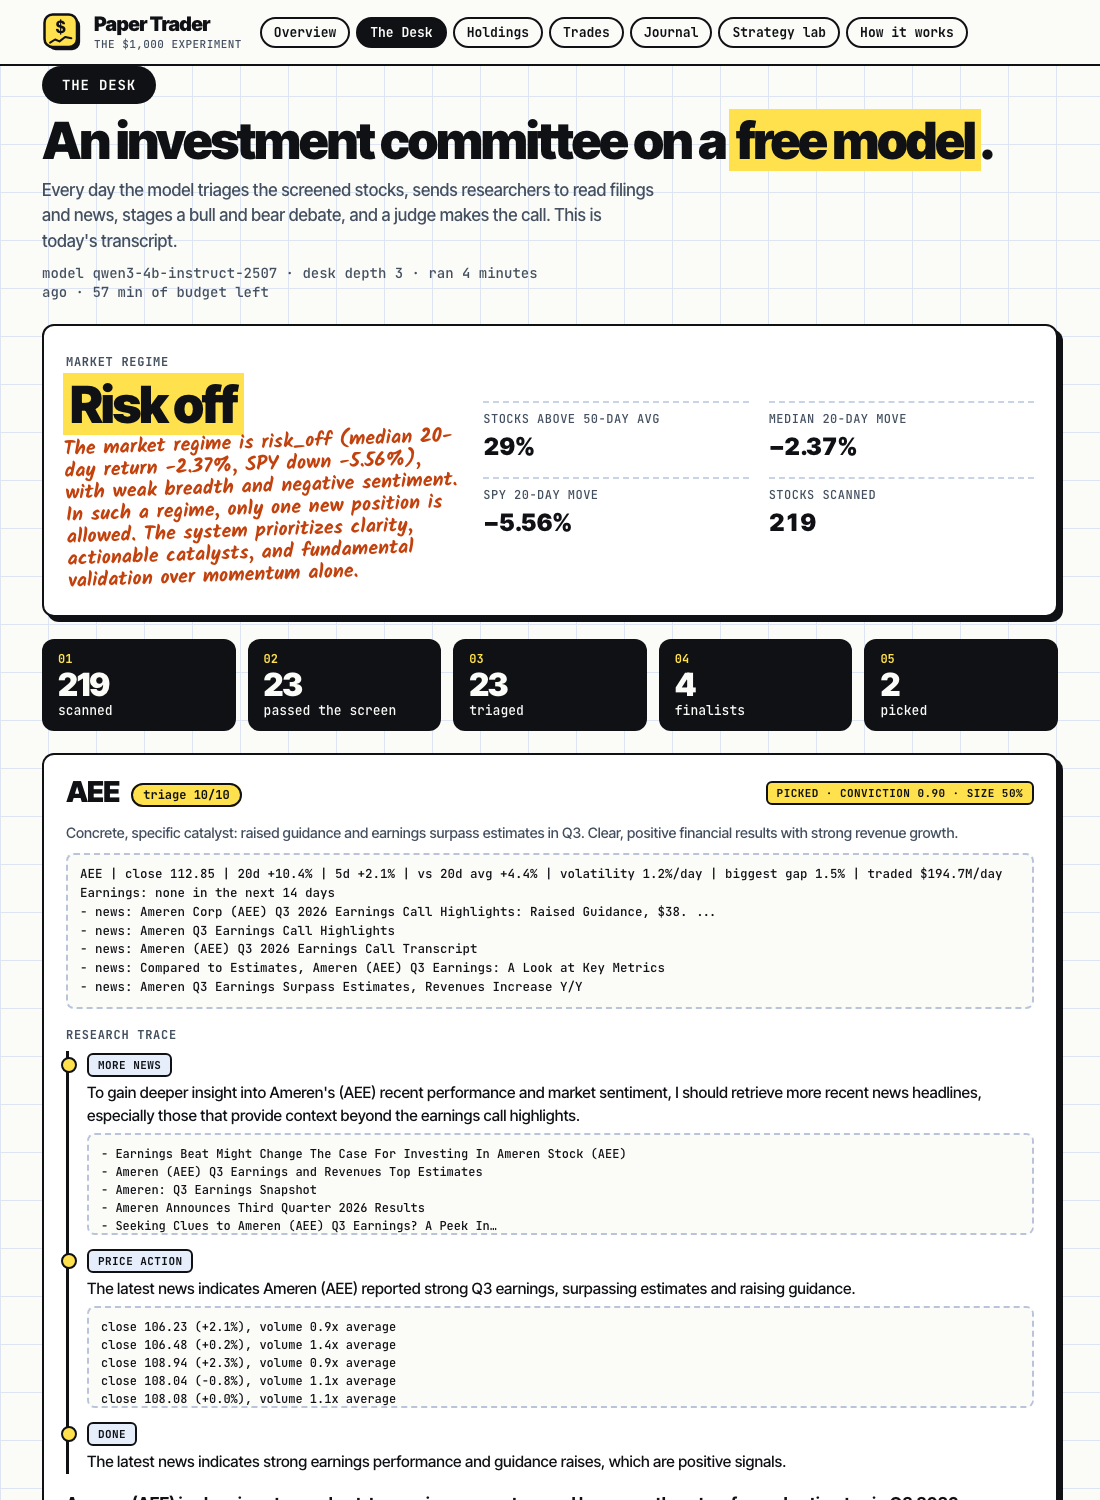
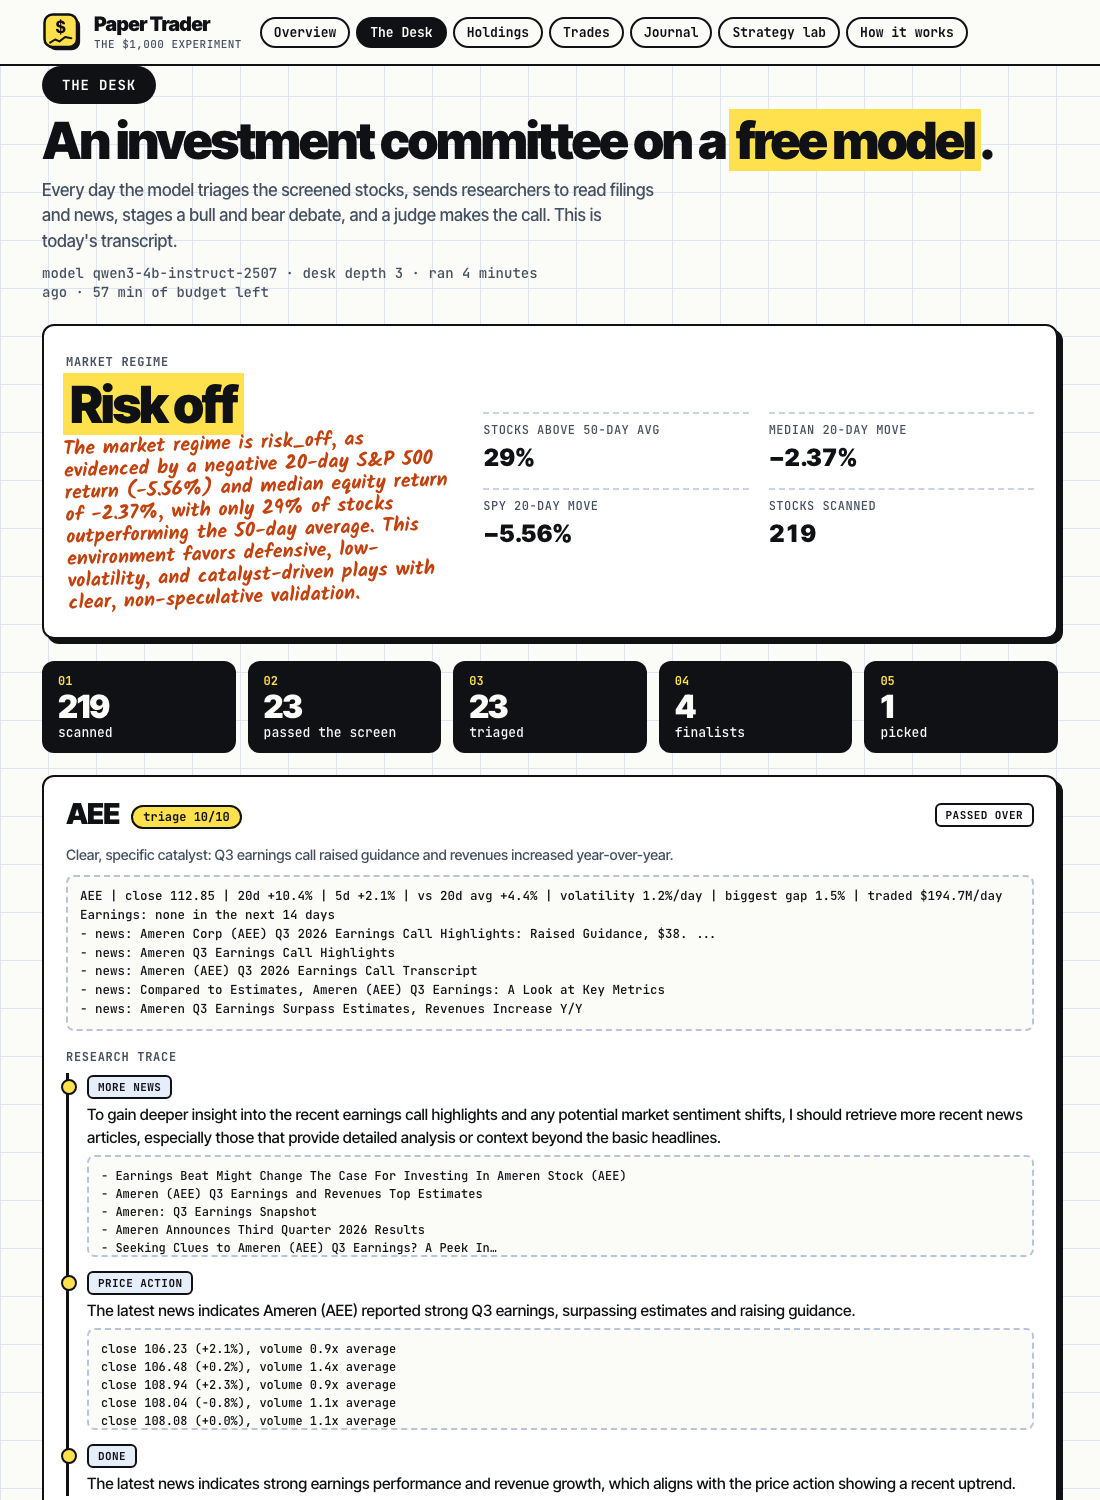
Rewrite the README around the desk, the depth ladder and the scorecard; refresh the screenshots from a real run

Changed region(s): [[0.0309, 0.276, 0.9891, 1.0], [0.4327, 0.276, 0.5873, 0.368], [0.68, 0.276, 0.8345, 0.368]]

diff --git a/README.md b/README.md
@@ -4,7 +4,7 @@
 
 <img src="docs/banner.svg" alt="Paper Trader, the $1,000 experiment" width="100%">
 
-**A $1,000 paper-trading account run by a free, open-weights AI. It reads the news and the earnings calendar, tests its own changes, and publishes every decision.**
+**A $1,000 paper-trading account run by an AI investment committee. It researches with tools, argues with itself, remembers its mistakes, grades every call, and has to prove each layer of AI beats the layer below. All on a free open-weights model.**
 
 [![Live dashboard](https://img.shields.io/badge/live-dashboard-ffe14d?style=for-the-badge&labelColor=0f1115)](https://mansoor-mamnoon.github.io/paper-trader/)
 [![Tests](https://img.shields.io/github/actions/workflow/status/mansoor-mamnoon/paper-trader/rust.yml?branch=main&style=for-the-badge&label=tests&labelColor=0f1115)](https://github.com/mansoor-mamnoon/paper-trader/actions/workflows/rust.yml)
@@ -12,25 +12,25 @@
 ![Model](https://img.shields.io/badge/model-Qwen3%204B%20open%20weights-ffe14d?style=for-the-badge&labelColor=0f1115)
 ![Cost](https://img.shields.io/badge/cost-%240-ffe14d?style=for-the-badge&labelColor=0f1115)
 
-[Live dashboard](https://mansoor-mamnoon.github.io/paper-trader/) · [How it works](#how-it-works) · [Strategy](#strategy) · [Strategy lab](#strategy-lab) · [Free and autonomous](#free-and-autonomous) · [Run it](#run-it) · [Limits](#limits)
+[Live dashboard](https://mansoor-mamnoon.github.io/paper-trader/) · [The desk](#the-desk) · [Does the AI help?](#does-the-ai-help) · [Strategy lab](#strategy-lab) · [Free and autonomous](#free-and-autonomous) · [Run it](#run-it) · [Limits](#limits)
 
 </div>
 
 ---
 
 <div align="center">
-<img src="docs/overview.svg" alt="Overview: data sources feed the screen and the AI analyst, the live and shadow accounts trade, ledgers are committed, and a static dashboard publishes the results" width="100%">
+<img src="docs/overview.svg" alt="Overview: data sources feed the screen and the investment desk, the live and shadow accounts trade, ledgers are committed, and a static dashboard publishes the results" width="100%">
 </div>
 
 ## What it is
 
-Paper Trader starts with $1,000 of simulated money and looks at US stocks once a day. A quantitative screen finds stocks in an uptrend. Then a small open-weights language model (Qwen3 4B, Apache-2.0) reads their recent headlines and upcoming earnings dates and ranks the ones it believes in. A fixed rulebook handles sizing and exits. Every signal, every skipped stock and every fill goes into a SQLite ledger, and a read-only dashboard on GitHub Pages shows all of it.
+Paper Trader starts with $1,000 of simulated money and looks at US stocks once a day. A quantitative screen finds stocks in an uptrend. Then an investment desk of small open-weights models (Qwen3 4B, Apache-2.0) decides which of them to buy. Every signal, every skipped stock, every argument and every fill goes into a SQLite ledger, and a read-only dashboard on GitHub Pages shows all of it.
 
-The question is whether this beats buying SPY after fees and slippage over 60 days. It places no real orders and has no broker connection. Everything runs on GitHub's free runners with no API key, and the whole backend is Rust.
+The question is whether this beats buying SPY after fees and slippage over 60 days, and which parts of the AI deserve the credit if it does. It places no real orders and has no broker connection. Everything runs on GitHub's free runners with no API key, and the backend is Rust.
 
 <div align="center">
-<img src="docs/dashboard.gif" alt="A tour through the six tabs of the dashboard" width="760">
-<br><sub>The six tabs, shown with a replayed scenario and synthetic prices.</sub>
+<img src="docs/dashboard.gif" alt="A tour through the dashboard tabs: overview, the desk, strategy lab, journal and how it works" width="760">
+<br><sub>A real run from 8 November 2026. No trades have closed yet, so the portfolio tabs are still empty.</sub>
 </div>
 
 | Setting | Value |
@@ -43,20 +43,42 @@ The question is whether this beats buying SPY after fees and slippage over 60 da
 | Model | Qwen3-4B-Instruct-2507, 4-bit, on llama.cpp, CPU only |
 | Hosting | GitHub Actions and GitHub Pages |
 
-## How it works
+## The desk
+
+One prompt that asks a small model to rank a dozen headlines wastes most of what a language model can do. GitHub's free runners give the job hours of CPU, so the desk spends that on deliberation.
 
 <div align="center">
-<img src="docs/pipeline.svg" alt="Daily pipeline: scan, screen, read, model picks, queue and fill, publish" width="100%">
+<img src="docs/desk.svg" alt="The desk: screen, triage, research agents with tools, bull and bear debate, judge, then the position doctor, memory, scorecard and strategy lab feed back in" width="100%">
 </div>
 
-1. The run downloads the Nasdaq symbol directory and a rotating batch of delayed daily bars from Yahoo Finance (800 symbols by default). Held positions, queued orders and SPY are always included.
-2. Each stock is screened and logged as `CANDIDATE` or `PASS` with the numbers behind the call.
-3. For the best candidates it fetches the next two weeks of earnings dates from Nasdaq and the latest headlines from Yahoo Finance.
-4. The model ranks the candidates, writes a short thesis for each pick and can veto stocks. It can only choose from the list it was shown.
-5. A buy never fills at the price that triggered it. It queues for a later session and fills at the open with fees and slippage applied.
-6. The ledgers are exported as JSON and CSV and the dashboard is redeployed.
+1. **Screen.** About 13,000 tickers go in, and the stocks in a liquid uptrend come out.
+2. **Triage.** The model scores the survivors from 0 to 10 for catalyst quality, eight at a time, and the best few become finalists.
+3. **Research agents.** Each finalist gets its own research loop. The agent picks its next tool: read the start of an SEC filing, pull older headlines, or inspect the last 15 sessions. It stops when it knows enough or after four steps, and it cannot repeat a call.
+4. **Bull and bear.** Two arguments per finalist, one told to make the case for buying and one told to find the flaw.
+5. **The judge.** The portfolio manager writes its reasoning first, then picks, sizes each position from 25% to 100% of the cap, and calls the market regime from breadth and trend. In a risk-off call the account allows one new position. Choosing nothing is a valid answer.
+6. **Position doctor.** Every day it re-reads each holding against the news since entry and answers hold, exit, or tighten the stop. It can raise a stop and never lower one.
+7. **Memory.** When a trade closes, a post-mortem writes a one-sentence lesson. The latest lessons go into the judge's prompt.
+8. **Scorecard.** Every pick, veto and near-miss is scored against SPY after 1, 3, 5 and 10 trading days. That gives hundreds of samples where three trades give none, plus a calibration curve of conviction against outcome. The judge reads its own track record.
 
-The durable account lives on a dedicated `account` branch. The workflow restores it, runs `PRAGMA integrity_check`, and stops with an error if the database is missing, so a lost file cannot silently reset the account.
+Replies are constrained to JSON schemas with length limits, so a 4B model cannot return malformed or runaway answers. Text from news and filings is treated as untrusted data. Position size, the three-position cap, costs, the 10% loss halt and the direction of stop changes are written in code, and nothing the model says can change them. Every stage has a wall-clock budget and falls back to the stage before it when it fails or runs out of time.
+
+<div align="center">
+<img src="docs/desk.png" alt="The Desk tab: market regime, the funnel from 219 scanned stocks to the picks, and a research trace with a bull and bear case" width="760">
+<br><sub>The Desk tab from a real run: a risk-off call, the funnel, and one finalist's research trace.</sub>
+</div>
+
+## Does the AI help?
+
+Most AI trading demos never test that. Here the live account sits at the top of a depth ladder, and a shadow account trades the same data one rung down at every level:
+
+| Depth | What runs |
+|---|---|
+| 0 | No AI. The same screen ranked by 20-day gain. |
+| 1 | One prompt ranks the headlines. |
+| 2 | The committee: triage, bull and bear, judge. |
+| 3 | The full desk, with research agents and filings. |
+
+The dashboard compares them by portfolio return and by scorecard. If a lower rung wins by a clear margin over two weeks, the strategy lab promotes it, so the system switches off AI that does not pay for itself. The default screen is a plain trend filter with no proven edge, so a good result at depth 0 is also a finding.
 
 ## Strategy
 
@@ -68,40 +90,36 @@ The screen is the starting point and the strategy lab can change its values with
 - 20-day return above 2%
 - no earnings report inside the blackout window (off by default)
 
-The best 25 survivors go to the model. Three positions at most, each capped at 20% of equity. A close at or below the stop (-4% by default) or at or above the target (+8%) queues a sell for the next session. A 10% drawdown permanently stops new entries, and the experiment ends after 60 days. If the model is unavailable, stocks are ranked by 20-day return, which is how the first version traded.
+Up to 25 survivors reach triage. Three positions at most, each capped at 20% of equity. A close at or below the stop (-4% by default) or at or above the target (+8%) queues a sell for the next session. A buy never fills at the price that triggered it: it queues and fills at a later open with fees and slippage. A 10% drawdown permanently stops new entries, and the experiment ends after 60 days.
 
 ## Strategy lab
 
-Nothing here is meant to stay fixed. The loop follows the recursive self-improvement pattern of the [KISS `rsi7d` agent](https://github.com/ksenxx/kiss_ai/tree/main/src/kiss/agents/seas/rsi7d): mine recent runs for evidence, propose a bounded edit, test it, and keep it only if the evidence supports it. Here the edit target is the strategy and the test is a live shadow account.
+The loop follows the recursive self-improvement pattern of the [KISS `rsi7d` agent](https://github.com/ksenxx/kiss_ai/tree/main/src/kiss/agents/seas/rsi7d): mine recent runs for evidence, propose a bounded edit, test it, and keep it only if the evidence supports it. Here the edit target is the strategy and the test is a live shadow account.
 
-1. Once a week the system reviews how the live strategy traded: closed trades, win rate, what the model said, how buys near earnings dates behaved.
-2. The model proposes one small change. It can adjust at most two things: numeric parameters inside fixed bounds, or the text of the analyst's playbook. Anything out of bounds is rejected and logged.
+1. Once a week the system reviews how the live strategy traded and how its picks scored.
+2. The model proposes one small change. It can adjust at most two things: numeric parameters inside fixed bounds, or the text of the judge's playbook. Anything out of bounds is rejected and logged.
 3. The change trades a separate $1,000 shadow account on the same daily data.
 4. After 14 days a challenger replaces the live strategy only if it beats it by at least one percentage point with at least two trades and a drawdown no more than three points worse.
 5. The replaced strategy keeps trading as a shadow. If the promotion was luck, it wins the seat back under the same rule.
 
-On its first run the lab also adds a control shadow: the same screen ranked by 20-day return with no AI. If the model does not beat the control, the control becomes the live strategy.
-
-Position size, the three-position cap, costs and the loss halt are written in code and no proposal can change them. The registry and every shadow ledger are committed to the `account` branch, so each change and its evidence stay public.
+The registry, the lessons and every shadow ledger are committed to the `account` branch, so each change and its evidence stay public.
 
 ## Free and autonomous
 
 There is no API key and no account to set up. Each scheduled run does this on a free GitHub runner:
 
 1. Restores the cached model. The first run downloads about 2.5 GB from Hugging Face and later runs reuse it.
-2. Starts `llama-server` from [llama.cpp](https://github.com/ggml-org/llama.cpp) with [Qwen3-4B-Instruct-2507](https://huggingface.co/Qwen/Qwen3-4B-Instruct-2507) quantized to 4 bits. Output is constrained to a JSON schema, so the model cannot return malformed answers.
-3. Runs the day: scan, analyst, shadow accounts, weekly proposal, export.
+2. Starts `llama-server` from [llama.cpp](https://github.com/ggml-org/llama.cpp) with [Qwen3-4B-Instruct-2507](https://huggingface.co/Qwen/Qwen3-4B-Instruct-2507) quantized to 4 bits.
+3. Runs the day: scan, gather news, earnings dates and SEC filings, run the desk for the live account and each shadow, post-mortems, weekly proposal, export.
 4. Commits the ledgers and redeploys the dashboard.
 
-A full run on a CPU-only runner takes about five minutes. Triggers are the weekday schedule, a manual run, or an external webhook (`repository_dispatch` with event type `run-account`). GitHub pauses scheduled workflows in quiet repositories, so every run also re-enables its own schedule. If the model server fails to start, the account still trades by momentum ranking and the dashboard says so. The `Model smoke test` workflow exercises the model on a scratch account without touching the live ledger.
+On an Apple M2 the full desk takes about four minutes. A CPU-only runner is several times slower, so the run has a three-hour model budget and the job a four-and-a-half-hour limit. Triggers are the weekday schedule, a manual run, or an external webhook (`repository_dispatch` with event type `run-account`). GitHub pauses scheduled workflows in quiet repositories, so every run also re-enables its own schedule. If the model server fails to start, the account still trades by momentum ranking and the dashboard says so. The `Model smoke test` workflow exercises the whole desk on a scratch account without touching the live ledger.
+
+SEC EDGAR answers only some networks. When it is unreachable the desk works from headlines and says so in the transcript.
 
 ## Dashboard
 
-<div align="center">
-<img src="docs/dashboard.png" alt="Overview tab with the headline result, equity chart against SPY and what happens next" width="760">
-</div>
-
-Six tabs. Overview opens with a one-line verdict against SPY, a 60-day progress bar, the equity chart with hover values, and what happens at the next session. Holdings shows each stock's price between its stop and its target. Trades lists every fill. Journal explains each decision in plain English with the headlines the model saw, plus a ticker search and a filter that hides routine "did not qualify" rows. Strategy lab shows today's analyst view, the live strategy, the challengers being tested and the change log. How it works covers the rules and the limits. Hover the `?` icons for definitions.
+Seven tabs. Overview opens with a one-line verdict against SPY and a 60-day progress bar. The Desk shows today's committee transcript: regime, funnel, each finalist's research trace and debate, the judge's reasoning, the doctor's notes and the lessons in memory. Holdings shows each stock's price between its stop and its target. Trades lists every fill. Journal explains each decision in plain English with a ticker search. Strategy lab shows the live strategy, the challengers, the depth ladder and the calibration chart. How it works covers the rules and the limits.
 
 Full histories download as `decisions.csv`, `fills.csv`, `equity.csv` and `events.csv`, and `api/state` returns the raw snapshot.
 
@@ -137,39 +155,43 @@ scripts/llm.sh stop
 
 Without `PAPER_TRADER_LLM_URL` the account trades by momentum ranking. Any server that speaks the OpenAI chat protocol works (Ollama, LM Studio, vLLM). Set `PAPER_TRADER_LLM_URL`, and optionally `PAPER_TRADER_LLM_MODEL` and `PAPER_TRADER_LLM_KEY`. A paid model is also supported through `ANTHROPIC_API_KEY`, and the local server wins when both are set.
 
-| Flag | Meaning |
+| Setting | Meaning |
 |---|---|
 | `--batch-size N` | Symbols per run. 20000 covers the full directory with many requests. |
 | `--replay FILE` | Apply a saved observation to a separate account. |
 | `--strategies DIR` | Where the strategy registry and shadow ledgers live. Defaults to next to `--db`. |
+| `PAPER_TRADER_DESK_MINUTES` | Wall-clock budget for all model calls in a run. Default 120. |
 
 To host your own copy, fork the repo and create an `account` branch containing an initialised `account.sqlite` and an `INITIALIZED` file. Enable GitHub Pages with the Actions source and the workflow takes over.
 
 ```
 src/
-  main.rs      command line
-  daily.rs     one daily run across the live account and its shadows
-  account.rs   screen, queued orders, fills, risk limits
-  analyst.rs   model clients, the analyst and its output checks
-  intel.rs     earnings calendar and headlines
-  strategy.rs  the bounded, editable strategy
-  lab.rs       shadow accounts, promotion rule, proposals
-  data.rs      Nasdaq directory and Yahoo daily bars
-  crypto.rs    crypto account and Kraken data
-  ledger.rs    SQLite schema, state and reports
-  export.rs    JSON and CSV snapshot
-web/           the dashboard (plain HTML, CSS and JavaScript)
-scripts/       llm.sh installs and starts the local model
-docs/          README images
-.github/       scheduled run, model smoke test and CI
+  main.rs       command line
+  daily.rs      one daily run: live account, shadows, memory, the improvement step
+  desk.rs       triage, research agents, debate, judge, doctor, post-mortems
+  scorecard.rs  forward returns of every pick, veto and near-miss
+  account.rs    screen, queued orders, sizing, fills, risk limits
+  analyst.rs    model clients and the single-shot analyst
+  edgar.rs      SEC filings and filing text
+  intel.rs      earnings calendar and headlines
+  strategy.rs   the bounded, editable strategy
+  lab.rs        shadow accounts, promotion rule, proposals
+  data.rs       Nasdaq directory and Yahoo daily bars
+  crypto.rs     crypto account and Kraken data
+  ledger.rs     SQLite schema, state and reports
+  export.rs     JSON and CSV snapshot
+web/            the dashboard (plain HTML, CSS and JavaScript)
+scripts/        llm.sh installs and starts the local model
+docs/           README images
+.github/        scheduled run, model smoke test and CI
 ```
 
-The crate is a library plus a thin binary on edition 2024, with 34 unit tests, and it passes `cargo clippy -- -D warnings` with the pedantic group enabled. Backend code is Rust only.
+The crate is a library plus a thin binary on edition 2024, with 62 unit tests, and it passes `cargo clippy -- -D warnings` with the pedantic group enabled. Backend code is Rust only.
 
 ## Limits
 
-- Sixty days is too short to separate skill from luck, so a good or bad result says little about the rules.
-- A 4B model is a weak reader of financial news. The control shadow exists to measure whether it adds anything.
+- Sixty days is too short to separate skill from luck, so a good or bad result says little about the rules. The scorecard exists to get more samples, not to remove this limit.
+- A 4B model is a weak reader of financial news. The depth ladder measures whether it adds anything.
 - Prices come from a free Yahoo endpoint with no guarantees. Missing quotes are logged and the symbol is skipped.
 - Stops and targets are checked on daily closes, so a gap can lose more than the stop level.
 - Execution is simplified. Liquidity, queue priority, outages and market impact are not modeled.
